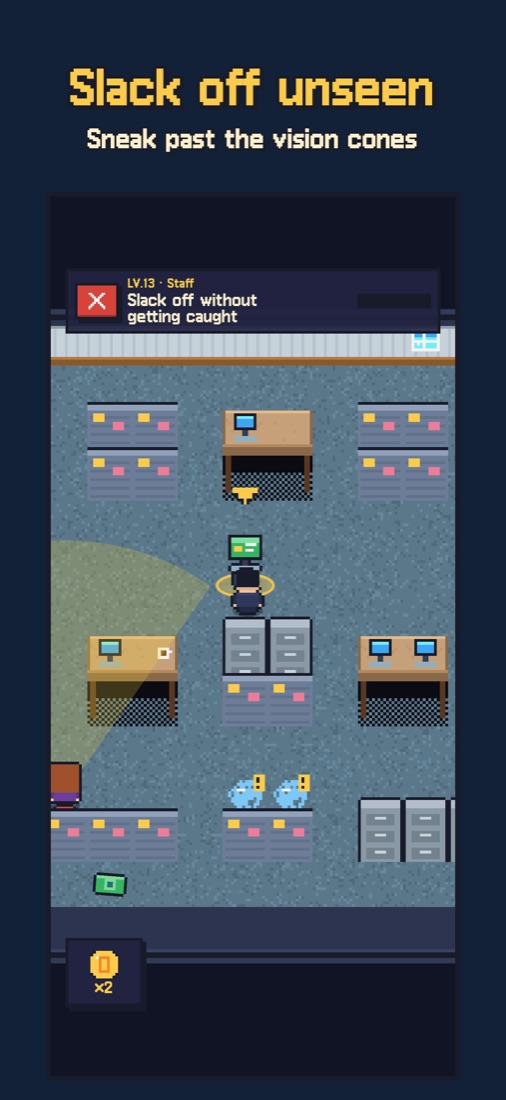
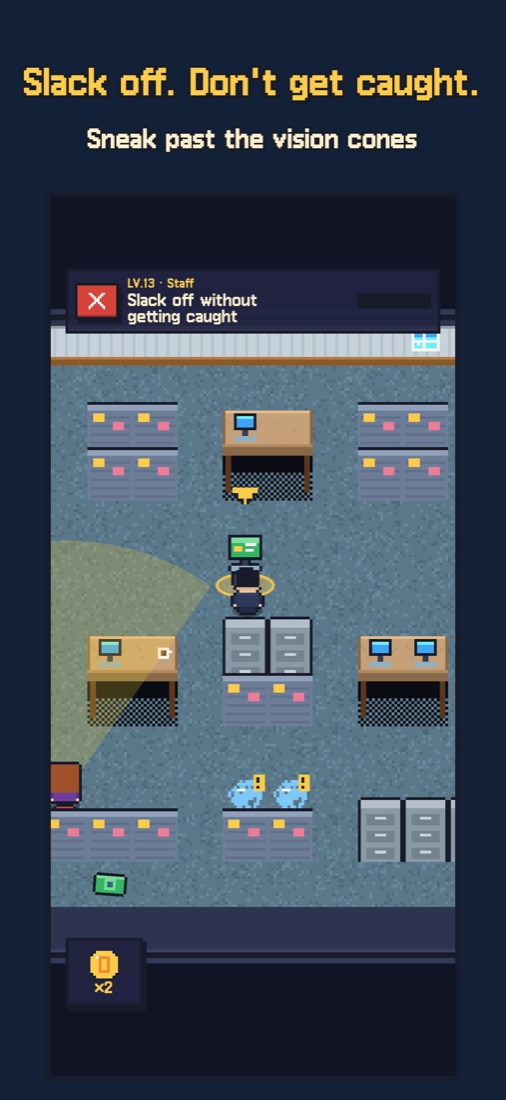
Privacy: remove video clips, clarify Game Center is Apple's service; FAQ + fitted screenshots

Changed region(s): [[0.0296, 0.0618, 0.9486, 0.1236]]

diff --git a/privacy.html b/privacy.html
@@ -34,7 +34,7 @@
 <body data-lang="ko">
 <div class="wrap">
   <h1 class="px"><span lang="ko">칼퇴 대작전</span><span lang="en">Sneaky Salaryman</span></h1>
-  <p class="when"><span lang="ko">개인정보처리방침 · 시행일 2026-10-05</span><span lang="en">Privacy Policy · Effective October 5, 2026</span></p>
+  <p class="when"><span lang="ko">개인정보처리방침 · 시행일 2026-10-06</span><span lang="en">Privacy Policy · Effective October 6, 2026</span></p>
   <div class="bar px">
     <div class="langs" role="group" aria-label="Language">
       <button type="button" data-set-lang="ko" aria-pressed="true">한국어</button>
@@ -53,12 +53,10 @@
       <li>iCloud를 사용 중이라면 기기 변경 시 복구를 위해 같은 진행 기록이 <strong>사용자 본인의 iCloud 계정</strong>에 동기화될 수 있습니다. 개발자는 이 데이터에 접근할 수 없습니다.</li>
       <li>앱을 삭제하면 기기에 저장된 기록도 함께 삭제됩니다.</li>
     </ul>
-    <h3 class="px">Apple 서비스</h3>
-    <ul>
-      <li><strong>Game Center</strong>(선택): 로그인한 경우 점수·데일리 기록이 Apple Game Center 순위표에 제출됩니다. 이는 Apple의 개인정보 처리방침을 따릅니다.</li>
-      <li><strong>알림</strong>(선택): '칼퇴 시간' 알림은 기기 안에서 예약되는 로컬 알림이며 외부로 전송되는 정보가 없습니다. iOS 설정에서 언제든 끌 수 있습니다.</li>
-      <li><strong>영상 공유</strong>(선택, 기본 꺼짐): 설정에서 켠 경우에만 들킨 순간의 짧은 화면 클립을 기기에서 만듭니다. 사용자가 직접 공유하기 전까지 기기 밖으로 나가지 않습니다.</li>
-    </ul>
+    <h3 class="px">Apple의 Game Center (순위표)</h3>
+    <p>Game Center는 이 앱이 아닌 <strong>Apple이 제공·운영하는 서비스</strong>입니다. 기기에서 Game Center에 로그인되어 있으면, 앱은 순위표 표시를 위해 획득한 별 개수와 '오늘의 칼퇴 챌린지' 기록을 Apple의 Game Center 순위표에 제출합니다. 이 정보는 Apple이 처리하며 <a href="https://www.apple.com/kr/legal/privacy/">Apple 개인정보 처리방침</a>을 따릅니다. 개발자는 순위표에 공개되는 Game Center 닉네임과 점수 외의 정보는 받지 않습니다. Game Center 사용은 iOS 설정 → Game Center에서 끌 수 있으며, 꺼도 게임은 그대로 이용할 수 있습니다.</p>
+    <h3 class="px">알림</h3>
+    <p>'칼퇴 시간' 알림은 허용한 경우에만 기기 안에서 예약되는 로컬 알림이며 외부로 전송되는 정보가 없습니다. iOS 설정에서 언제든 끌 수 있습니다.</p>
     <h3 class="px">아동의 개인정보</h3>
     <p>개인정보를 수집하지 않으므로 아동의 개인정보도 수집하지 않습니다.</p>
     <h3 class="px">변경</h3>
@@ -77,12 +75,10 @@
       <li>If you use iCloud, the same progress may sync to <strong>your own iCloud account</strong> so you can restore it on a new device. The developer cannot access it.</li>
       <li>Deleting the app deletes the progress stored on the device.</li>
     </ul>
-    <h3 class="px">Apple services</h3>
-    <ul>
-      <li><strong>Game Center</strong> (optional): if you are signed in, scores and daily results are submitted to Apple's Game Center leaderboards, governed by Apple's privacy policy.</li>
-      <li><strong>Notifications</strong> (optional): the daily clock-out reminder is a local notification scheduled on your device; nothing is sent anywhere. Turn it off any time in iOS Settings.</li>
-      <li><strong>Video clips</strong> (optional, off by default): only if you enable it in Settings, a short screen clip of the moment you get caught is created on your device. It never leaves the device unless you share it yourself.</li>
-    </ul>
+    <h3 class="px">Apple's Game Center (leaderboards)</h3>
+    <p>Game Center is a service <strong>provided and operated by Apple</strong>, not by this app. If you are signed in to Game Center on your device, the app submits your total stars and Daily Escape results to Apple's Game Center leaderboards so they can be ranked. This is handled by Apple under the <a href="https://www.apple.com/legal/privacy/">Apple Privacy Policy</a>. The developer receives nothing beyond the Game Center nickname and score shown publicly on the leaderboard. You can turn Game Center off in iOS Settings → Game Center; the game works the same without it.</p>
+    <h3 class="px">Notifications</h3>
+    <p>The daily clock-out reminder is a local notification scheduled on your device only if you allow it; nothing is sent anywhere. Turn it off any time in iOS Settings.</p>
     <h3 class="px">Children</h3>
     <p>Because no personal data is collected, none is collected from children.</p>
     <h3 class="px">Changes</h3>

diff --git a/index.html b/index.html
@@ -82,7 +82,7 @@
       <li><strong>진행 기록은 어디에 저장되나요?</strong> 기기에 저장되며, iCloud를 사용 중이면 본인 iCloud에도 백업되어 새 기기에서 이어서 할 수 있습니다.</li>
       <li><strong>'칼퇴 시간' 알림을 끄고 싶어요.</strong> iOS 설정 → 알림 → 칼퇴 대작전에서 끌 수 있습니다.</li>
       <li><strong>소리가 안 나요.</strong> 게임 설정의 효과음/배경음악이 켜져 있는지, 기기 볼륨을 확인해 주세요.</li>
-      <li><strong>들킨 장면을 영상으로 공유하려면?</strong> 게임 설정에서 '들킨 순간 영상 공유'를 켜면 됩니다. 켜지 않아도 이미지 카드로 공유할 수 있습니다.</li>
+      <li><strong>들킨 장면을 공유하려면?</strong> 결과 화면의 [공유하기]로 이미지 카드를 보낼 수 있습니다. 영상으로 남기고 싶다면 iPhone 제어 센터의 '화면 기록'을 이용하세요.</li>
       <li><strong>결제나 광고가 있나요?</strong> 없습니다. 의상과 책상 아이템은 모두 게임 속 월급으로 얻습니다.</li>
     </ul>
   </section>
@@ -98,7 +98,7 @@
       <li><strong>Where is my progress saved?</strong> On your device, and in your own iCloud if you use it, so you can continue on a new device.</li>
       <li><strong>How do I turn off the clock-out reminder?</strong> iOS Settings → Notifications → Sneaky Salaryman.</li>
       <li><strong>No sound?</strong> Check Sound / Music in the game's settings and your device volume.</li>
-      <li><strong>Sharing caught moments as video?</strong> Turn on "Share caught clips (video)" in the game's settings. You can always share an image card instead.</li>
+      <li><strong>How do I share a caught moment?</strong> Tap Share on the result card to send an image card. For video, use Screen Recording in iPhone's Control Center.</li>
       <li><strong>Any purchases or ads?</strong> None. Every outfit and desk item is earned with in-game salary.</li>
     </ul>
   </section>
